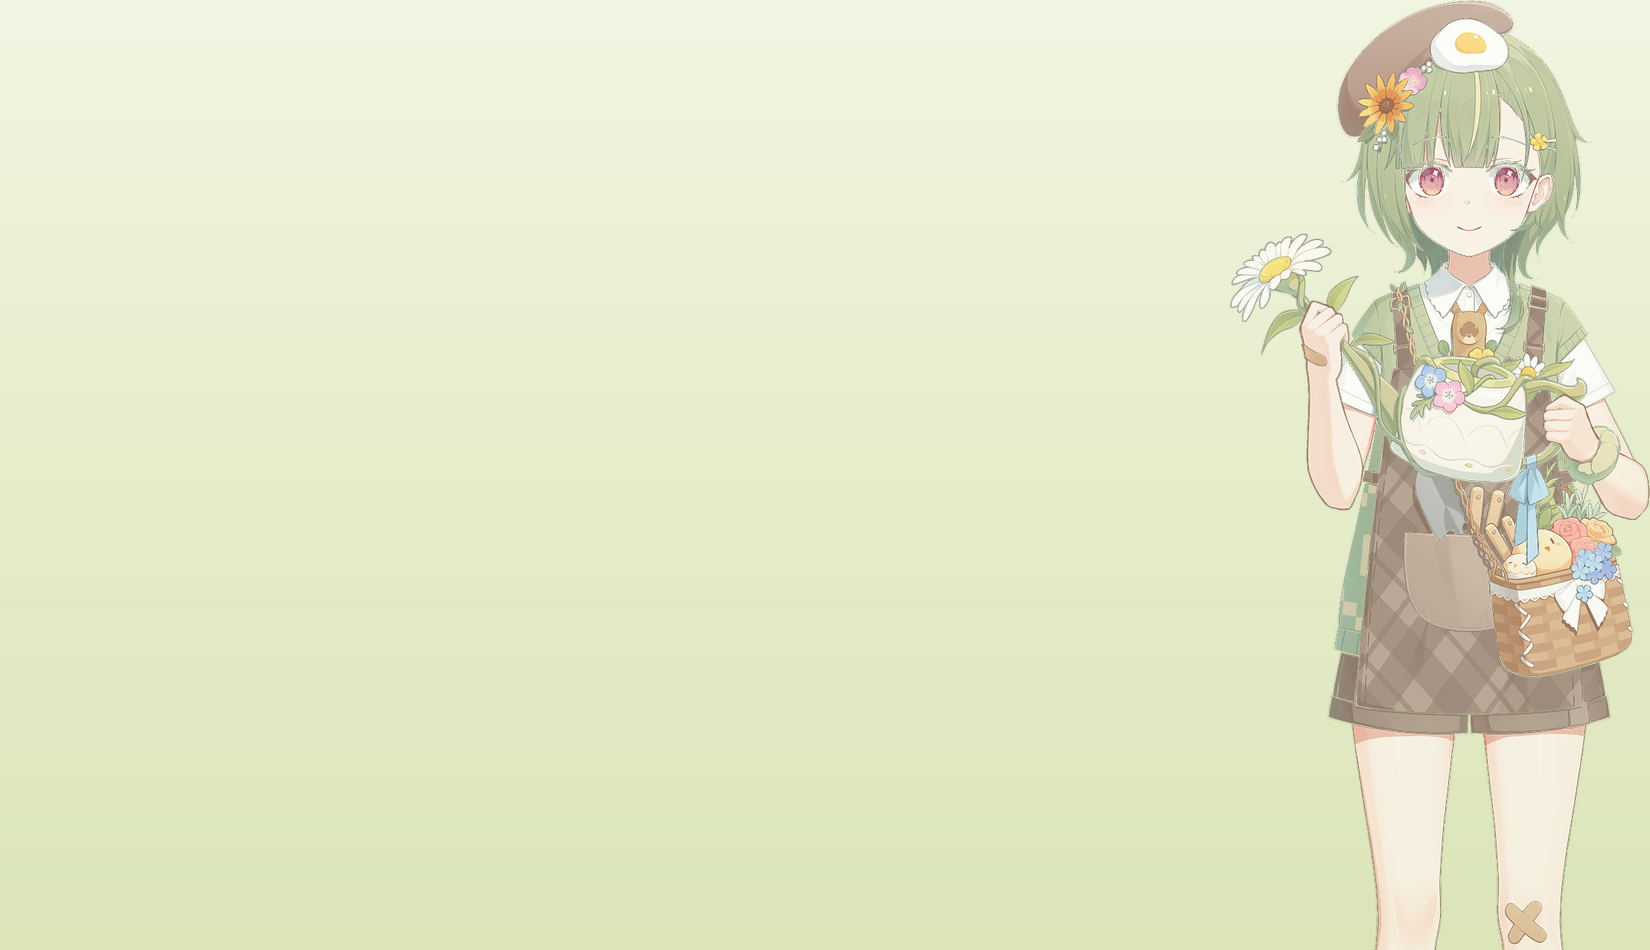
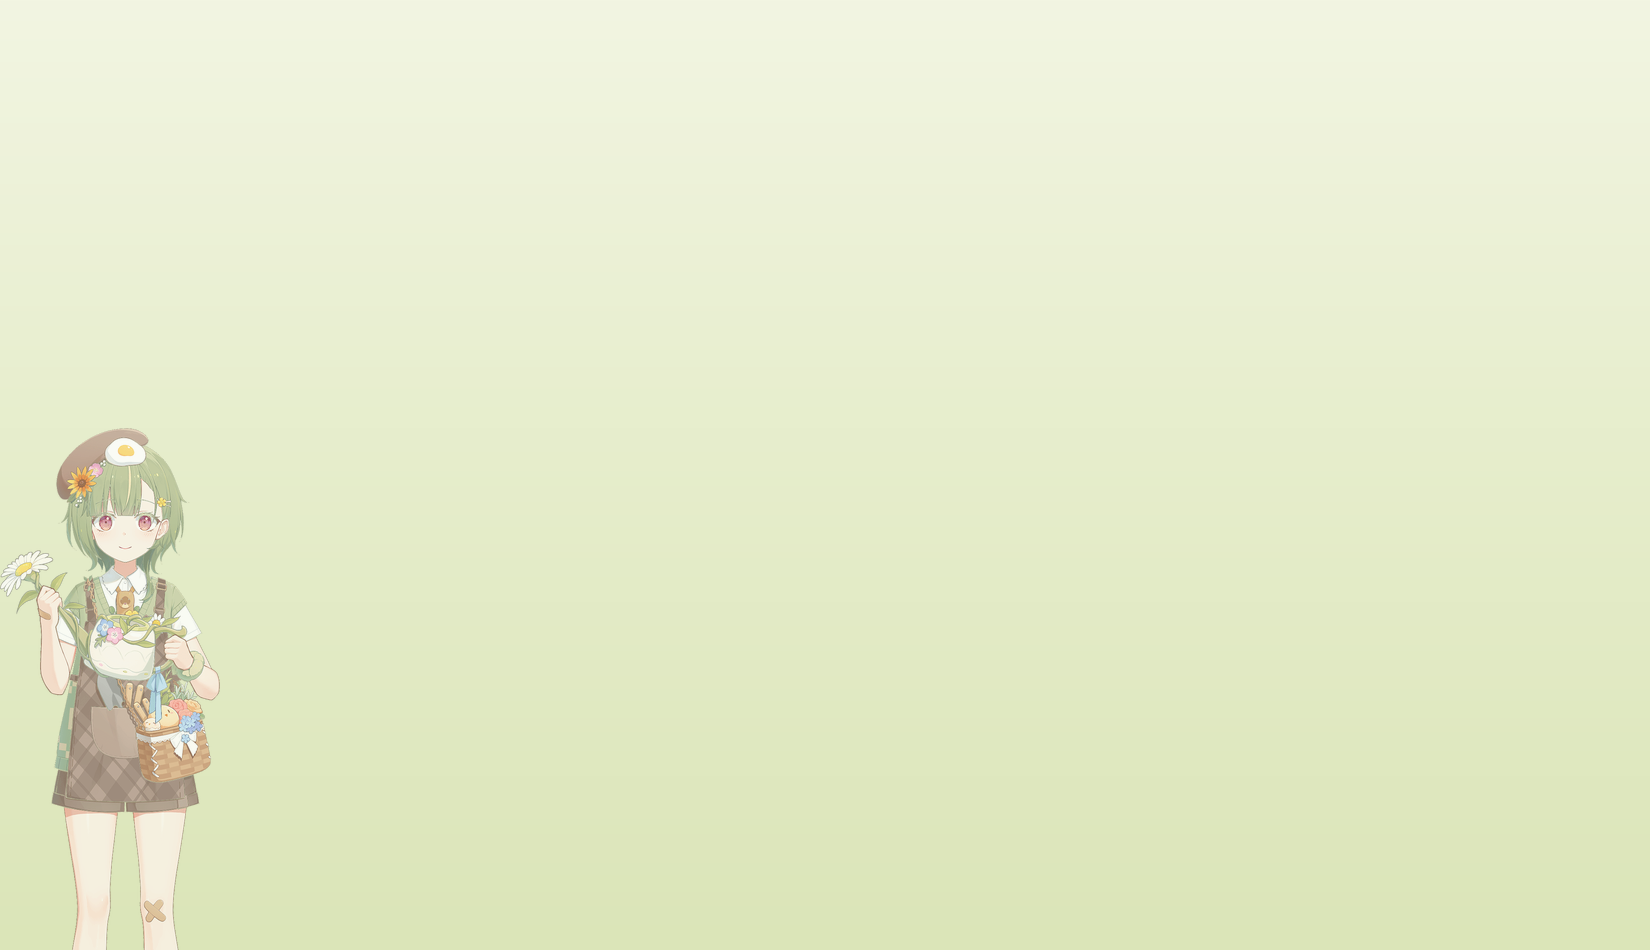
背景人物移到左下角、占半页高清晰(原分辨率放大)，bg-full?v=5

Changed region(s): [[0.7418, 0.0, 1.0, 1.0], [0.0, 0.4274, 0.1545, 1.0]]

diff --git a/index.html b/index.html
@@ -1945,7 +1945,7 @@
 
     /* ===== 主题色半透明毛玻璃（覆盖白底模块） ===== */
     html, body {
-      background: url('assets/bg-full.png?v=4') right top/auto 100vh no-repeat fixed;
+      background: url('assets/bg-full.png?v=5') left bottom/auto 100vh no-repeat fixed;
     }
     .app { background: transparent; box-shadow: none; position: relative; z-index: 1; }
     /* 通用毛玻璃卡片 */

diff --git a/buttons/index.html b/buttons/index.html
@@ -48,7 +48,7 @@
     html, body {
       margin: 0;
       padding: 0;
-      background: url('../assets/bg-full.png?v=4') right top/auto 100vh no-repeat fixed;
+      background: url('../assets/bg-full.png?v=5') left bottom/auto 100vh no-repeat fixed;
       color: var(--text);
       font-family: 'Microsoft YaHei', 'Segoe UI', sans-serif;
       min-height: 100vh;
